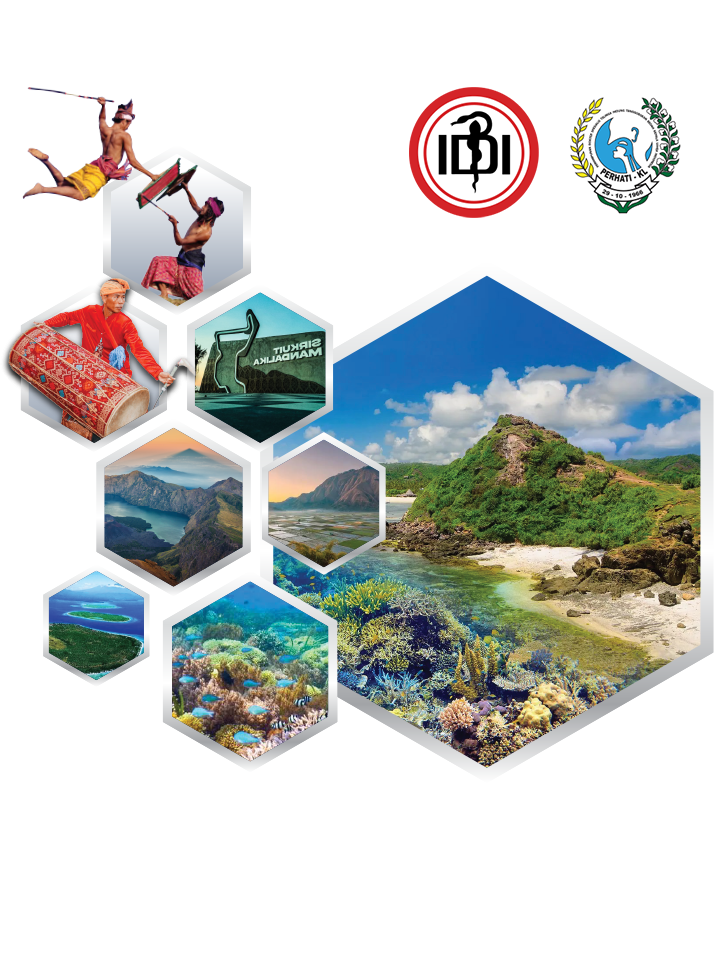
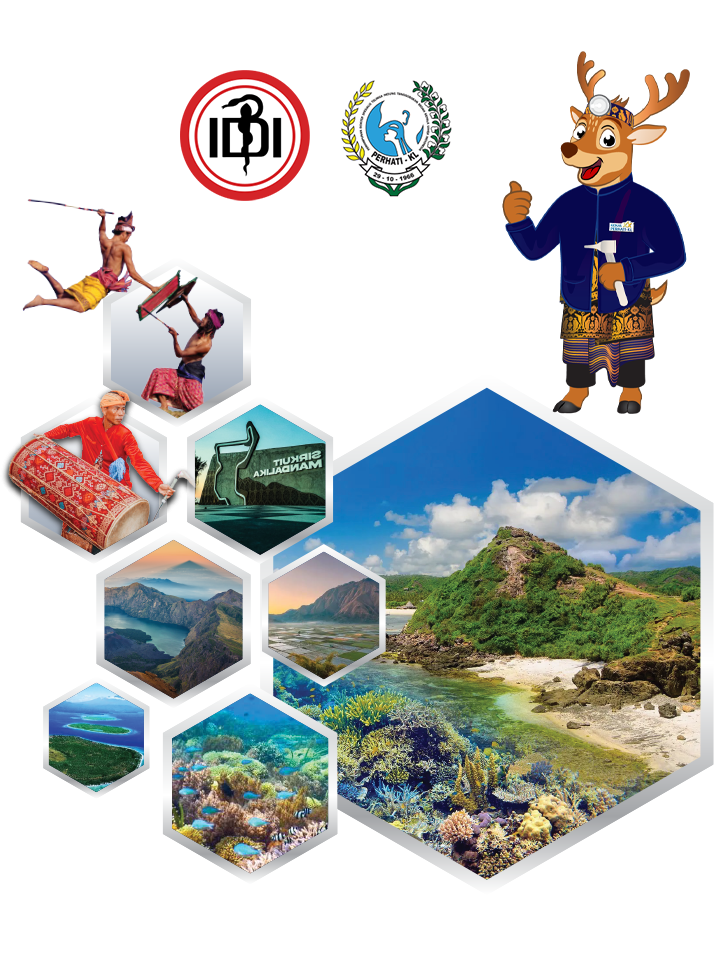
feat hotel venue and mascoot

diff --git a/resources/views/livewire/home-page.blade.php b/resources/views/livewire/home-page.blade.php
@@ -10,8 +10,8 @@
                     <h1 class="text-4xl font-semibold">{{ __('home.title')}} PERHATI-KL
                     </h1>
 
-                    <p class="text-biscay-900">{{ __('home.venue')}} <br>
-                        {{ __('home.event_date')}}}</p>
+                    <p class="text-biscay-900">{{ __('home.hotel')}}, {{ __('home.venue')}} <br>
+                        {{ __('home.event_date')}}</p>
                     <div class="flex flex-row gap-5">
                         <a href="/registration" class="btn btn-info text-white">{{__('home.register')}}</a>
                         <a href="/congress-information" class="btn btn-outline hover:bg-info">{{__('home.read_more')}}</a>
@@ -72,13 +72,14 @@
                 </div>
             </div>
             <div class="w-full px-0 lg:pl-10 lg:py-5">
+                
                 <h1 class="text-4xl mt-5 text-info font-bold">{{__('home.title')}} </h1>
                 <h1 class="text-xl mt-5 text-info font-bold">{{__('home.association')}}</h1>
                 {{-- <p class="text-slate-400 italic mt-5">"Theme: Lorem ipsum dolor sit amet, consectetur
                     adipisicing elit "
                 </p> --}}
                 <div class="font-semibold mt-5 text-slate-500">
-                    <p>{{__('home.venue')}} </p>
+                    <p>{{ __('home.hotel')}}, {{__('home.venue')}} </p>
                     <p>{{__('home.event_date')}}</p>
                 </div>
 
@@ -86,7 +87,7 @@
                     <a href="/registration" class="btn w-1/3 btn-primary border-none text-white">{{__('home.register')}}</a>
                     <a href="/congress-information" class="btn w-1/3 btn-outline-primary ">{{__('home.read_more')}}</a>
                 </div>
-
+                <img src="images/mascoot.png" class="w-44 float-end" alt="">
             </div>
         </div>
     </div>

diff --git a/lang/id/home.php b/lang/id/home.php
@@ -3,7 +3,7 @@
 return [
     'title' => 'Kongres Nasional ke-XX',
     'association' => 'Perhimpunan Dokter Spesialis THT Bedah Kepala dan Leher Indonesia',
-    'venue' => 'Lombok, Nusa Tenggara Barat, Indonesia',
+    'venue' => 'Nusa Tenggara Barat, Indonesia',
     'register' => 'Daftar Sekarang',
     'read_more' => 'Baca Selengkapnya',
     'get_contact' => 'Hubungi kami',
@@ -14,10 +14,5 @@ return [
     'counter_minute' => 'Menit',
     'counter_second' => 'Detik',
     'get_contact_us' => 'Hubungi kami untuk berita dan informasi terkini.',
-    'reg_category' => 'Kategori',
-    'early_bird' => 'Pendaftaran Early Bird',
-    'reg_late_onsite' => 'Pendaftaran Terlambat / Di Tempat',
-    'reg_specialist' => 'Spesialis',
-    'reg_resident_gp' => 'Residen / Dokter umum',
-    'reg_up_to' => 'Hingga',
+    'hotel' => 'Hotel Lombok Raya',
 ];

diff --git a/lang/en/home.php b/lang/en/home.php
@@ -3,7 +3,7 @@
 return [
     'title' => 'The XX National Congress of',
     'association' => 'the Association of Indonesian Head and Neck Surgery ENT Specialists ',
-    'venue' => 'Lombok, West Nusa Tenggara, Indonesia ',
+    'venue' => 'West Nusa Tenggara, Indonesia',
     'date' => 'Oktober, 30th - November, 1st 2025',
     'register' => 'Register Now',
     'read_more' => 'Read More',
@@ -15,10 +15,5 @@ return [
     'counter_minute' => 'Minutes',
     'counter_second' => 'Seconds',
     'get_contact_us' => 'Contact us for the latest news and info.',
-    'reg_category' => 'Category',
-    'early_bird' => 'Early Bird Registration',
-    'reg_late_onsite' => 'Late / Onsite Registration',
-    'reg_specialist' => 'Specialist',
-    'reg_resident_gp' => 'Resident / GP',
-    'reg_up_to' => 'Up to',
+    'hotel' => 'Lombok Raya Hotel',
 ];

diff --git a/resources/views/livewire/pages/congress-information.blade.php b/resources/views/livewire/pages/congress-information.blade.php
@@ -6,7 +6,7 @@
                 <h1 class="text-4xl mt-5 text-primary-800 mb-5 font-bold">{{__('home.title')}} PERHATI-KL</h1>
                 <div class="mt-5">
                     <div class="font-semibold mt-5 text-slate-500">
-                        <p class="text-biscay-900">{{__('home.venue')}}<br>
+                        <p class="text-biscay-900">{{ __('home.hotel')}}, {{__('home.venue')}}<br>
                             {{__('home.event_date')}}</p>
                     </div>
                 </div>

diff --git a/lang/en/menu.php b/lang/en/menu.php
@@ -13,6 +13,4 @@ return [
     'submission' => 'Submission',
     'guide-abstract' => 'Guideline for Abstract',
     'abstract' => 'Abstract Submission',
-    'registration_fee' => 'Registration Fee',
-    'registration_info' => 'Registration Information',
 ];

diff --git a/lang/id/menu.php b/lang/id/menu.php
@@ -13,6 +13,4 @@ return [
     'submission' => 'Penyerahan',
     'guide-abstract' => 'Pedoman Abstrak',
     'abstract' => 'Penyerahan Abstrak',
-    'registration_fee' => 'Biaya pendaftaran',
-    'registration_info' => 'Informasi Pendaftaran',
 ];
